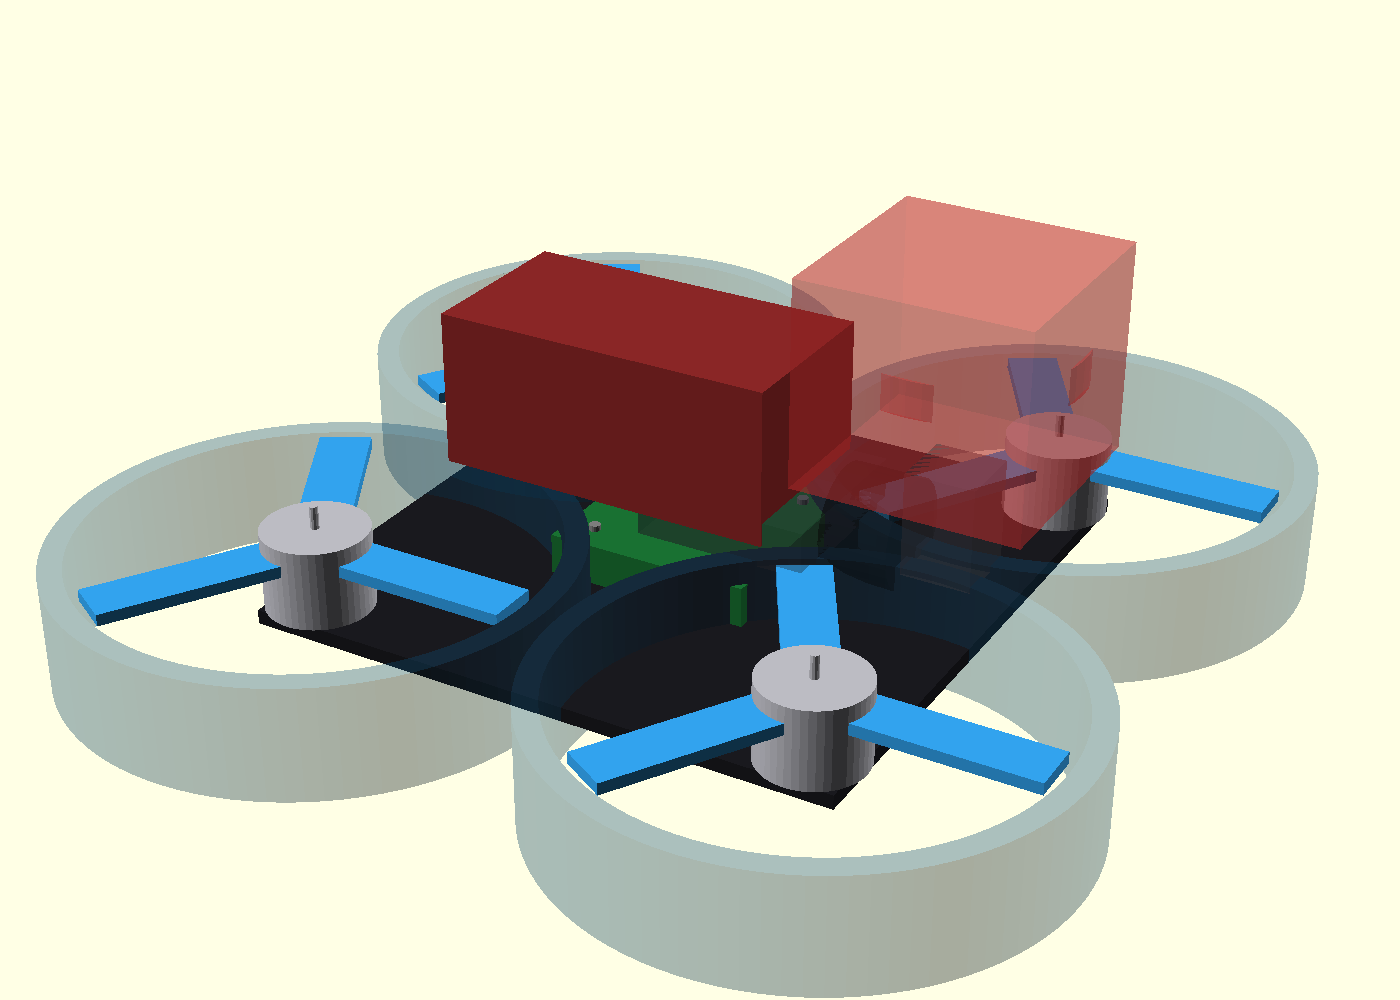
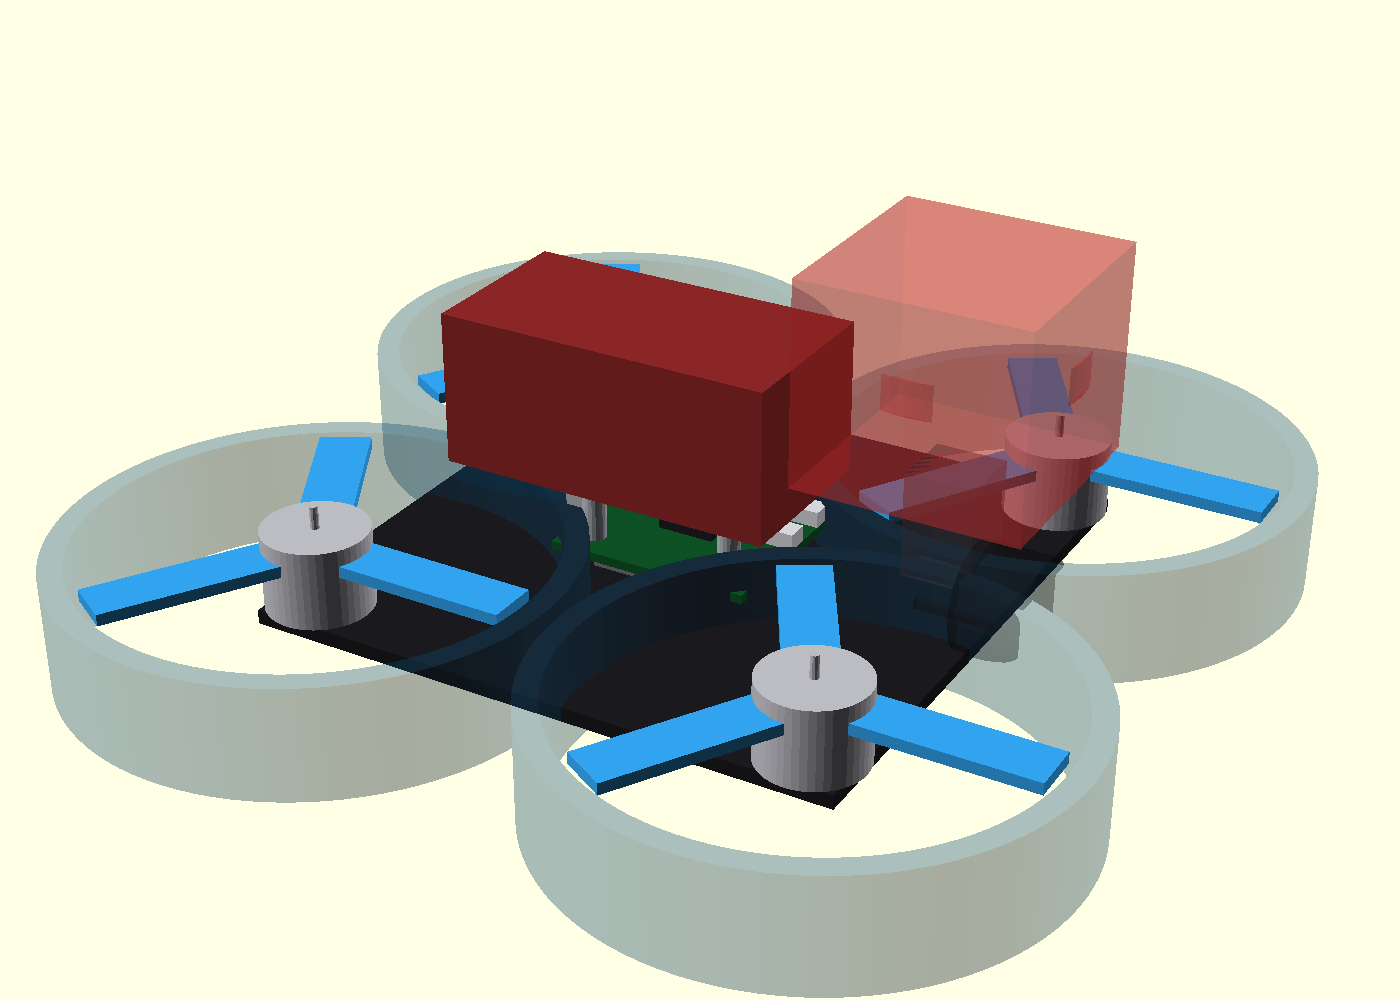
feat: model the electronics as boards rather than blocks
The flight controller, video unit, receiver and flow sensor were plain cubes,
which hid the things that actually constrain the build: where the mounting
pattern sits, which edge the USB is on, and how tall the stack gets once
components and standoffs are counted.

Each board now has a substrate with its mounting holes really cut, its
components, and its connectors. The video board stands on standoffs above the
flight controller, so the stack height follows from them instead of a guessed
gap. The receiver's antenna is drawn because where it ends up is a real
constraint, and the flow sensor's optics are on the underside where they look.

The battery covers all of it, so `explode`, `show_battery` and `show_ducts` were
added and electronics.png renders the stack pulled apart. Unverified outlines
stay translucent as before.

Claude-Session: https://claude.ai/code/session_01CEsLBAvyJXgmTJE1gBdUuK

diff --git a/cad_claude/README.md b/cad_claude/README.md
@@ -21,6 +21,29 @@ lidaru dopředu a kužel optical flow dolů.
 | Izometrie | `drone.png` |
 | Půdorys | `drone_top.png` |
 | Bokorys | `drone_side.png` |
+| Elektronika, rozstřelená | `electronics.png` |
+
+Elektroniku zakrývá baterie, takže detail potřebuje odklidit ji i ducty:
+
+```bash
+openscad -o electronics.png --imgsize=1400,1000 --camera=0,0,16,60,0,28,200 \
+  -D show_battery=false -D show_ducts=false -D explode=14 drone.scad
+```
+
+## Desky
+
+Nejsou to kvádry. Každá deska má substrát, **vyříznuté montážní díry**,
+osazení a konektory, protože ty rozhodují o tom, co se kam vejde:
+
+- **FC MicoAir H743 V2 45A AIO** - deska 36 × 36 na roztečích 25.5, MCU, dvě
+  gyra, barometr, **USB-C na hraně** a čtyři UART konektory nahoře; zespodu
+  zapouzdřený ESC blok a motorové pady. Jestli po smontování zůstane USB
+  dosažitelné, je jedna z otázek, kvůli kterým model vznikl.
+- **Video EMAX Wyvern Link Alpha** - stojí na distančních sloupcích nad FC, takže
+  výška stacku vychází z nich a ne z odhadu. Kamerový modul je zvlášť, na nose.
+- **RX SpeedyBee ELRS Nano** - deska 10.4 × 18.4, SX1280, IPEX a anténa, která
+  taky musí někde skončit mimo karbon.
+- **MTF-02P** - optika dolů: flow kamera vedle laseru, oboje na spodní straně.
 
 ## Co model říká
 
